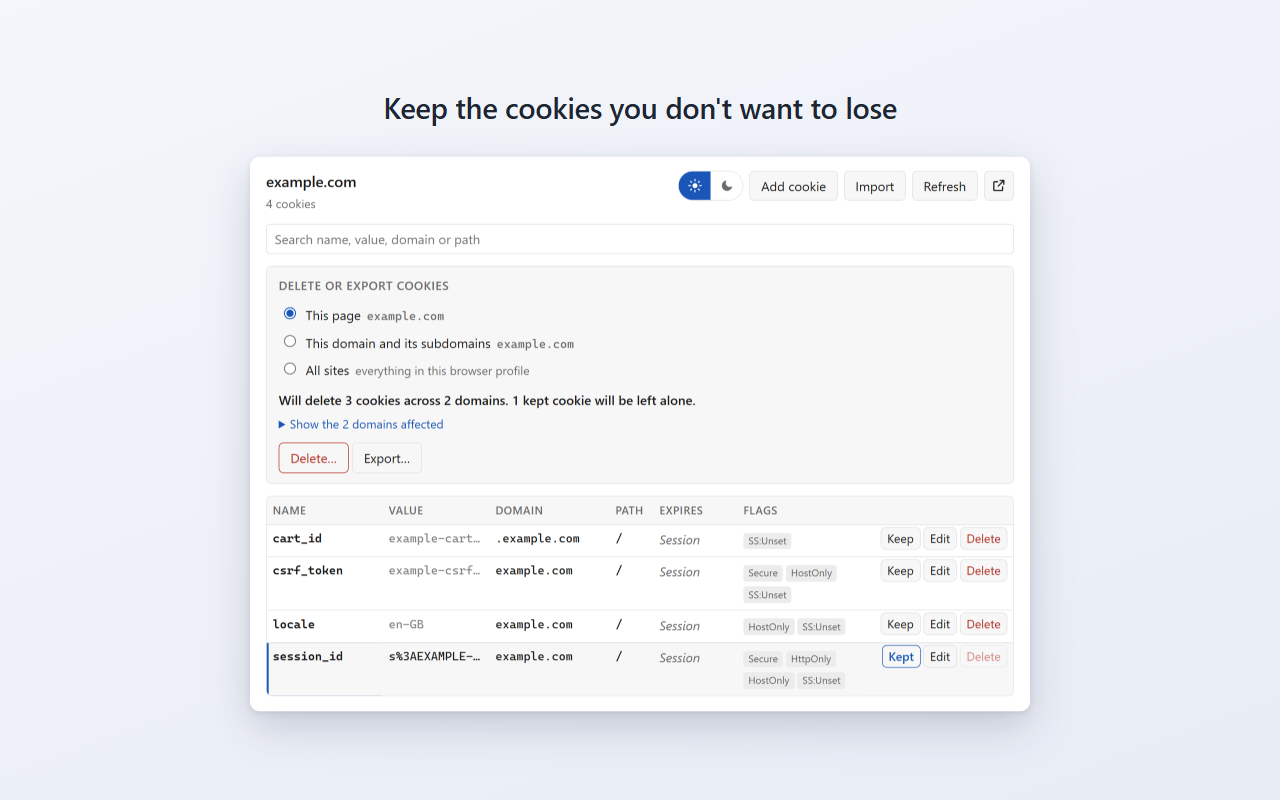
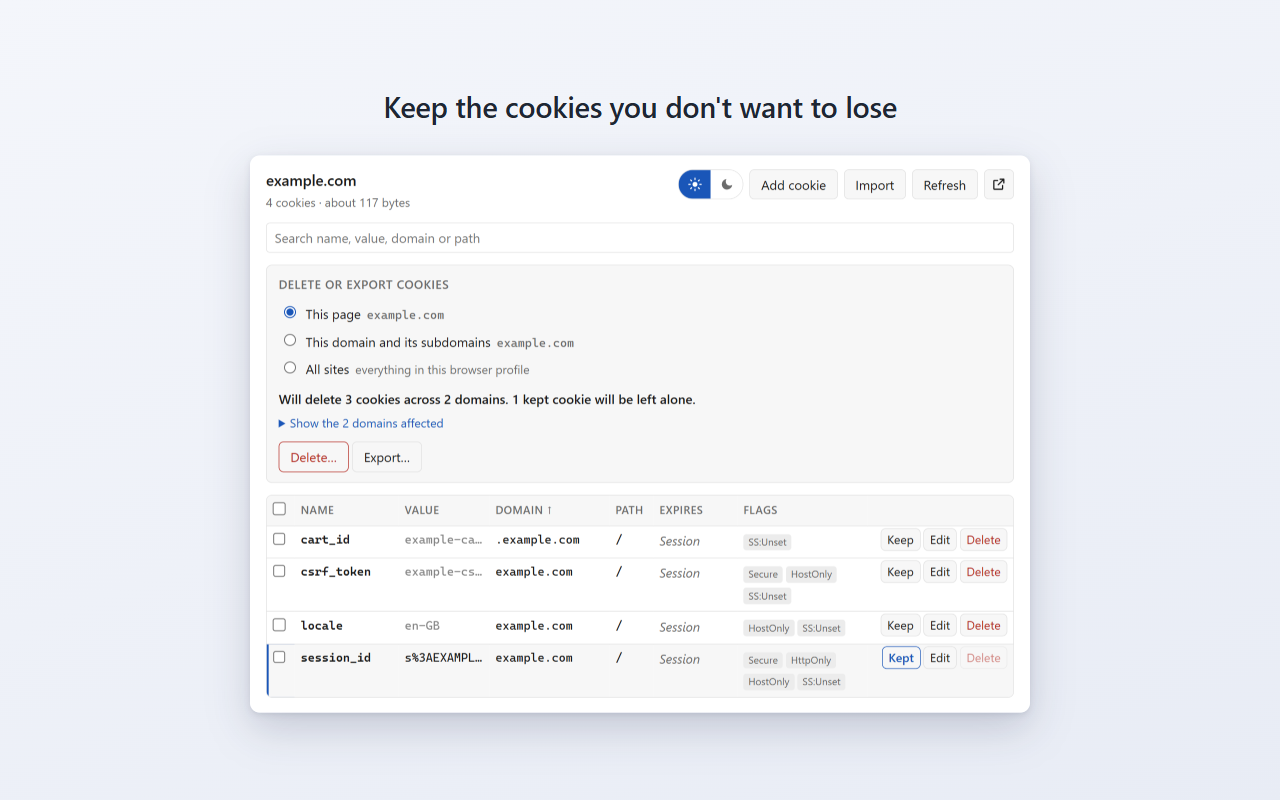
cookieZ 1.2.0: new screenshots, site and listing copy

diff --git a/docs/index.html b/docs/index.html
@@ -29,9 +29,9 @@
   <meta name="twitter:card" content="summary_large_image">
   <link rel="icon" type="image/png" sizes="32x32" href="images/favicon-32.png">
   <link rel="apple-touch-icon" href="images/icon-128.png">
-  <link rel="stylesheet" href="style.css?v=2026-09-29">
-  <script src="carousel.js?v=2026-09-29" defer></script>
-  <script src="theme.js?v=2026-09-29" defer></script>
+  <link rel="stylesheet" href="style.css?v=2026-10-01">
+  <script src="carousel.js?v=2026-10-01" defer></script>
+  <script src="theme.js?v=2026-10-01" defer></script>
 </head>
 <body>
   <a class="skip" href="#main">Skip to content</a>
@@ -86,35 +86,35 @@
           <div class="slides" tabindex="0" role="group" aria-label="Screenshots. Scroll sideways or use the arrow keys.">
             <div class="slide" role="group" aria-roledescription="slide" aria-label="1 of 5">
               <figure>
-                <img class="shot" src="images/popup-01-overview.webp?v=2026-09-29" srcset="images/popup-01-overview@2x.webp?v=2026-09-29 2x" width="780" height="555" fetchpriority="high"
+                <img class="shot" src="images/popup-01-overview.webp?v=2026-10-01" srcset="images/popup-01-overview@2x.webp?v=2026-10-01 2x" width="780" height="555" fetchpriority="high"
                      alt="The cookieZ popup on example.com, listing four cookies with their domain, path, expiry and flags, and the delete panel above them.">
                 <figcaption>Every cookie on the site you're on</figcaption>
               </figure>
             </div>
             <div class="slide" role="group" aria-roledescription="slide" aria-label="2 of 5">
               <figure>
-                <img class="shot" src="images/popup-02-delete-scope.webp?v=2026-09-29" srcset="images/popup-02-delete-scope@2x.webp?v=2026-09-29 2x" width="780" height="580" loading="lazy"
+                <img class="shot" src="images/popup-02-delete-scope.webp?v=2026-10-01" srcset="images/popup-02-delete-scope@2x.webp?v=2026-10-01 2x" width="780" height="580" loading="lazy"
                      alt="The delete panel with All sites selected: 7 cookies across 5 domains, with the five domains listed underneath.">
                 <figcaption>See exactly what will be deleted, before it happens</figcaption>
               </figure>
             </div>
             <div class="slide" role="group" aria-roledescription="slide" aria-label="3 of 5">
               <figure>
-                <img class="shot" src="images/popup-03-edit.webp?v=2026-09-29" srcset="images/popup-03-edit@2x.webp?v=2026-09-29 2x" width="780" height="574" loading="lazy"
+                <img class="shot" src="images/popup-03-edit.webp?v=2026-10-01" srcset="images/popup-03-edit@2x.webp?v=2026-10-01 2x" width="780" height="574" loading="lazy"
                      alt="The editor creating a new cookie, with every field shown: name, value, domain, path, SameSite, expiry and flags.">
                 <figcaption>Create or edit any field</figcaption>
               </figure>
             </div>
             <div class="slide" role="group" aria-roledescription="slide" aria-label="4 of 5">
               <figure>
-                <img class="shot" src="images/popup-04-search.webp?v=2026-09-29" srcset="images/popup-04-search@2x.webp?v=2026-09-29 2x" width="780" height="440" loading="lazy"
+                <img class="shot" src="images/popup-04-search.webp?v=2026-10-01" srcset="images/popup-04-search@2x.webp?v=2026-10-01 2x" width="780" height="440" loading="lazy"
                      alt="A search for 'token' showing one matching cookie, with the delete scope set to just the cookies shown.">
                 <figcaption>Search, then delete only what's shown</figcaption>
               </figure>
             </div>
             <div class="slide" role="group" aria-roledescription="slide" aria-label="5 of 5">
               <figure>
-                <img class="shot" src="images/popup-05-keep.webp?v=2026-09-29" srcset="images/popup-05-keep@2x.webp?v=2026-09-29 2x" width="780" height="555" loading="lazy"
+                <img class="shot" src="images/popup-05-keep.webp?v=2026-10-01" srcset="images/popup-05-keep@2x.webp?v=2026-10-01 2x" width="780" height="555" loading="lazy"
                      alt="A cookie marked as Kept. Its delete button is disabled and the summary says one kept cookie will be left alone.">
                 <figcaption>Keep the cookies you don't want to lose</figcaption>
               </figure>
@@ -149,14 +149,17 @@
         <h2>What it does</h2>
         <ul class="features">
           <li><strong>Lists every cookie</strong>For the site you're on, with domain, path, expiry and flags. Partitioned cookies included.</li>
-          <li><strong>Deletes at the scope you pick</strong>This page, this domain and its subdomains, or every site. The count and the list of sites are shown first.</li>
+          <li><strong>Deletes at the scope you pick</strong>This page, this domain and its subdomains, every site, or just the cookies you tick. The count and the list of sites are shown first.</li>
+          <li><strong>Undoes a delete</strong>Deleted the wrong thing? Undo puts the cookies back, for 10 minutes afterwards.</li>
           <li><strong>Creates and edits cookies</strong>Name, value, domain, path, expiry, Secure, HttpOnly and SameSite can all be changed.</li>
-          <li><strong>Exports and imports</strong>JSON, cookies.txt or a Cookie header. Imports from other cookie editors too, with a preview first.</li>
+          <li><strong>Exports and imports</strong>JSON, cookies.txt, a Playwright file, a Cookie header or a curl command. Imports from other cookie editors too, with a preview first.</li>
+          <li><strong>Shows how big they are</strong>Each site's total, with a warning when there are enough cookies to stop you logging in.</li>
           <li><strong>Searches</strong>By name, value, domain or path. While searching, you can delete just the cookies you can see.</li>
           <li><strong>Keeps the ones you need</strong>Mark a cookie as Kept and cookieZ won't delete it, even when you clear every site.</li>
           <li><strong>Tells you when Chrome changes things</strong>Chrome caps cookie expiry at about 400 days. If you ask for longer, cookieZ says so.</li>
           <li><strong>Works in incognito</strong>Incognito cookies stay separate from your normal ones.</li>
           <li><strong>Light or dark</strong>It starts in your system's theme and remembers if you pick the other one.</li>
+          <li><strong>Opens from the keyboard</strong>Press Alt+Shift+K. You can change the shortcut in Chrome.</li>
         </ul>
       </div>
     </section>
@@ -168,7 +171,7 @@
           <p>Some cookie extensions say they've cleared everything when they've only cleared the site you're on. cookieZ shows you how many cookies will go and which sites they belong to, before it does anything.</p>
           <p>That number comes from the same lookup that does the deleting, so what it says and what it does can't drift apart. Partitioned cookies, which many tools miss, are included.</p>
         </div>
-        <img class="shot" src="images/popup-02-delete-scope.webp?v=2026-09-29" srcset="images/popup-02-delete-scope@2x.webp?v=2026-09-29 2x" width="780" height="580" loading="lazy"
+        <img class="shot" src="images/popup-02-delete-scope.webp?v=2026-10-01" srcset="images/popup-02-delete-scope@2x.webp?v=2026-10-01 2x" width="780" height="580" loading="lazy"
              alt="The delete panel with All sites selected: 7 cookies across 5 domains, with the five domains listed underneath.">
       </div>
     </section>
@@ -195,7 +198,7 @@
             <h3>Edit any field</h3>
             <p>Change a cookie's value, expiry, path or flags, or make a new one. A cookie that was only for one host stays that way, and a session cookie doesn't quietly become permanent.</p>
           </div>
-          <img class="shot" src="images/popup-03-edit.webp?v=2026-09-29" srcset="images/popup-03-edit@2x.webp?v=2026-09-29 2x" width="780" height="574" loading="lazy"
+          <img class="shot" src="images/popup-03-edit.webp?v=2026-10-01" srcset="images/popup-03-edit@2x.webp?v=2026-10-01 2x" width="780" height="574" loading="lazy"
                alt="The editor creating a new cookie, with every field shown: name, value, domain, path, SameSite, expiry and flags.">
         </div>
         <div class="split flip tour">
@@ -203,7 +206,7 @@
             <h3>Search, then delete what you see</h3>
             <p>Filter by name, value, domain or path. An extra delete option appears that removes only the cookies left on screen.</p>
           </div>
-          <img class="shot" src="images/popup-04-search.webp?v=2026-09-29" srcset="images/popup-04-search@2x.webp?v=2026-09-29 2x" width="780" height="440" loading="lazy"
+          <img class="shot" src="images/popup-04-search.webp?v=2026-10-01" srcset="images/popup-04-search@2x.webp?v=2026-10-01 2x" width="780" height="440" loading="lazy"
                alt="A search for 'token' showing one matching cookie, with the delete scope set to just the cookies shown.">
         </div>
         <div class="split tour">
@@ -211,7 +214,7 @@
             <h3>Keep the logins you need</h3>
             <p>Mark a cookie as Kept and it's left alone by every delete, even "All sites". The summary tells you how many it's skipping.</p>
           </div>
-          <img class="shot" src="images/popup-05-keep.webp?v=2026-09-29" srcset="images/popup-05-keep@2x.webp?v=2026-09-29 2x" width="780" height="555" loading="lazy"
+          <img class="shot" src="images/popup-05-keep.webp?v=2026-10-01" srcset="images/popup-05-keep@2x.webp?v=2026-10-01 2x" width="780" height="555" loading="lazy"
                alt="A cookie marked as Kept. Its delete button is disabled and the summary says one kept cookie will be left alone.">
         </div>
       </div>

diff --git a/docs/support/index.html b/docs/support/index.html
@@ -28,8 +28,8 @@
   <meta property="og:image:height" content="800">
   <meta name="twitter:card" content="summary_large_image">
   <link rel="icon" type="image/png" sizes="32x32" href="../images/favicon-32.png">
-  <link rel="stylesheet" href="../style.css?v=2026-09-29">
-  <script src="../theme.js?v=2026-09-29" defer></script>
+  <link rel="stylesheet" href="../style.css?v=2026-10-01">
+  <script src="../theme.js?v=2026-10-01" defer></script>
 </head>
 <body>
   <a class="skip" href="#main">Skip to content</a>
@@ -109,7 +109,11 @@
         </details>
         <details>
           <summary>How do I move cookies to another browser or tool?</summary>
-          <p>Choose which cookies in the delete panel, then click Export. JSON works with cookieZ and other cookie editors. cookies.txt works with curl, wget, yt-dlp and similar tools. To bring cookies in, click Import and paste them, or open cookieZ in a tab to choose a file. You'll see how many cookies will be added, and for which sites, before anything changes. An export includes login cookies, so treat it like a password.</p>
+          <p>Choose which cookies in the delete panel, then click Export. JSON works with cookieZ and other cookie editors. cookies.txt works with curl, wget, yt-dlp and similar tools. The Playwright option makes a storageState file for starting automated tests already logged in. To bring cookies in, click Import and paste them, or open cookieZ in a tab to choose a file. You'll see how many cookies will be added, and for which sites, before anything changes. An export includes login cookies, so treat it like a password.</p>
+        </details>
+        <details>
+          <summary>What does the size next to the cookie count mean?</summary>
+          <p>It's roughly how much the site's cookies add to every request your browser sends it. Many servers refuse requests with more than about 8 KB of them, and the usual symptom is a site that won't let you log in, so cookieZ warns you above 6 KB. Deleting that site's cookies usually fixes it. A cookie marked Large is close to Chrome's 4 KB limit for a single cookie.</p>
         </details>
         <details>
           <summary>How do I remove it?</summary>

diff --git a/docs/privacy/index.html b/docs/privacy/index.html
@@ -28,8 +28,8 @@
   <meta property="og:image:height" content="800">
   <meta name="twitter:card" content="summary_large_image">
   <link rel="icon" type="image/png" sizes="32x32" href="../images/favicon-32.png">
-  <link rel="stylesheet" href="../style.css?v=2026-09-29">
-  <script src="../theme.js?v=2026-09-29" defer></script>
+  <link rel="stylesheet" href="../style.css?v=2026-10-01">
+  <script src="../theme.js?v=2026-10-01" defer></script>
 </head>
 <body>
   <!-- Generated from store/PRIVACY.md by tests/make_privacy_page.py.

diff --git a/docs/website-privacy/index.html b/docs/website-privacy/index.html
@@ -28,8 +28,8 @@
   <meta property="og:image:height" content="800">
   <meta name="twitter:card" content="summary_large_image">
   <link rel="icon" type="image/png" sizes="32x32" href="../images/favicon-32.png">
-  <link rel="stylesheet" href="../style.css?v=2026-09-29">
-  <script src="../theme.js?v=2026-09-29" defer></script>
+  <link rel="stylesheet" href="../style.css?v=2026-10-01">
+  <script src="../theme.js?v=2026-10-01" defer></script>
 </head>
 <body>
   <a class="skip" href="#main">Skip to content</a>

diff --git a/docs/404.html b/docs/404.html
@@ -18,8 +18,8 @@
   <title>Page not found - cookieZ</title>
   <meta name="robots" content="noindex">
   <link rel="icon" type="image/png" sizes="32x32" href="/images/favicon-32.png">
-  <link rel="stylesheet" href="/style.css?v=2026-09-29">
-  <script src="/theme.js?v=2026-09-29" defer></script>
+  <link rel="stylesheet" href="/style.css?v=2026-10-01">
+  <script src="/theme.js?v=2026-10-01" defer></script>
 </head>
 <body>
   <header class="site-header">

diff --git a/src/popup/popup.css b/src/popup/popup.css
@@ -701,7 +701,8 @@ tr.kept-row td {
   background: var(--panel);
 }
 
-tr.kept-row td.name {
+/* A line down the left edge of a kept row. The tick box is the first cell. */
+tr.kept-row td.pick {
   box-shadow: inset 2px 0 0 var(--accent);
 }
 

diff --git a/tests/make_privacy_page.py b/tests/make_privacy_page.py
@@ -57,8 +57,8 @@ TEMPLATE = """<!DOCTYPE html>
   <meta property="og:image:height" content="800">
   <meta name="twitter:card" content="summary_large_image">
   <link rel="icon" type="image/png" sizes="32x32" href="../images/favicon-32.png">
-  <link rel="stylesheet" href="../style.css?v=2026-09-29">
-  <script src="../theme.js?v=2026-09-29" defer></script>
+  <link rel="stylesheet" href="../style.css?v=2026-10-01">
+  <script src="../theme.js?v=2026-10-01" defer></script>
 </head>
 <body>
   <!-- Generated from store/PRIVACY.md by tests/make_privacy_page.py.

diff --git a/store/LISTING.md b/store/LISTING.md
@@ -51,13 +51,17 @@ Before you delete anything, cookieZ shows you how many cookies will go and which
 
 Features:
 - See every cookie for the current site: name, value, domain, path, expiry and flags
-- Delete cookies for this page, this site and its subdomains, or every site
+- Delete cookies for this page, this site and its subdomains, every site, or just the ones you tick
+- Undo a delete for 10 minutes afterwards
 - Create new cookies and edit any field
 - Delete a single cookie
 - Search by name, value, domain or path, then delete only the results
-- Export cookies as JSON, cookies.txt (Netscape) or a Cookie header, then copy or download
+- Export cookies as JSON, cookies.txt (Netscape), a Playwright storageState file, a Cookie header or a curl command, then copy or download
 - Import JSON (from cookieZ or another cookie editor) or cookies.txt, with a preview before anything is added
 - Copy a cookie's value in one click
+- Sort by name, domain or expiry, and see at a glance which cookies expire soon
+- See how big each site's cookies are, with a warning when they get big enough to stop logins
+- Open it with Alt+Shift+K
 - Open cookieZ in a full tab for long lists and long values
 - Mark cookies as "Kept" so cookieZ never deletes them
 - Works in incognito, kept separate from your normal cookies
